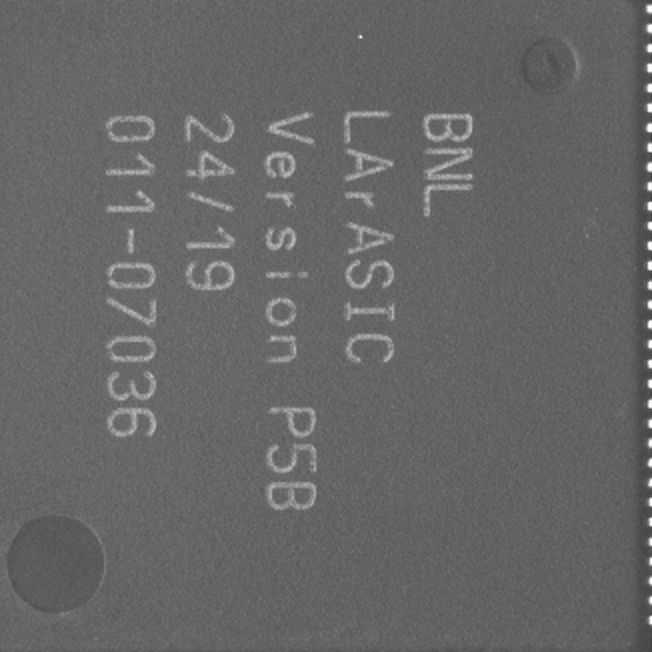
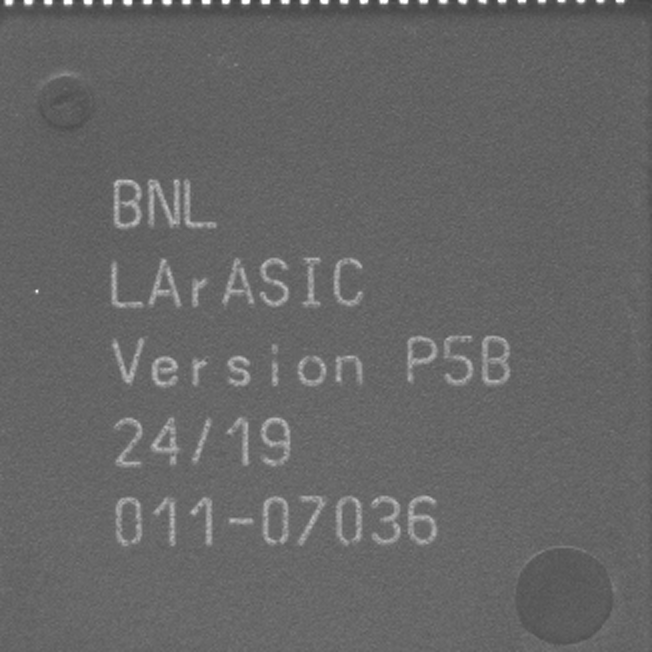
update

Changed region(s): [[0.1534, 0.1534, 0.7975, 0.8589], [0.0, 0.0, 1.0, 1.0], [0.6442, 0.1534, 0.7362, 0.3374]]

diff --git a/SN_chip_CPM_2.py b/SN_chip_CPM_2.py
@@ -149,16 +149,20 @@ def validate_ocr_result(ocr_result, process_id):
 
 def ocr_chip(image_fp, image_fn, ocr_image_dir):
     image_path = image_fp + image_fn
-    if "_SN" not in image_fn:
-        print (f"{image_fn} is wrong")
-    elif os.path.isfile(image_path): 
+#    if "_SN" not in image_fn:
+#        print (f"{image_fn} is wrong")
+    if os.path.isfile(image_path): 
         pass
     else:
         print ("File not found")
         return None
 
     # Constants
-    crop_box = (1120, 792, 1120 + 326, 792 + 326)  # (x, y, x+w, y+h)
+    x=350
+    y=220
+    w=330
+    h=330
+    crop_box = (x, y, x+w, y+h)  # (x, y, x+w, y+h)
     
     # Extract image_number from the filename (assuming it's before the first '_')
     image_number = image_fn.split('_')[0]
@@ -189,6 +193,7 @@ def ocr_chip(image_fp, image_fn, ocr_image_dir):
     #cv2.imwrite(ocr_image_dir, resized_image)
     cv2.imwrite(ocr_image_dir, resized_image)
     ocr_result = perform_ocr_minicpm(image_path = ocr_image_dir)
+    print (ocr_result)
 
     ocr_flg =  validate_ocr_result(ocr_result, image_number)
     if ocr_flg: 
@@ -233,7 +238,7 @@ def ocr_chip(image_fp, image_fn, ocr_image_dir):
 
 if __name__ == '__main__':
 
-    fp = """C:/Users/sgao.BNL/Documents/GitHub/DUNE-rts-sn-rec/Tested/B011T0001/images/"""
-    fn = """20240711181215_SN.bmp"""
-    x = ocr_chip(image_fp=fp, image_fn = fn, ocr_image_dir = "./Tested/a.png")
+    fp = """D:/RTS_tmp/new/"""
+    fn = """1.png"""
+    x = ocr_chip(image_fp=fp, image_fn = fn, ocr_image_dir = fp + "/1_ocr.png")
     print (x)
